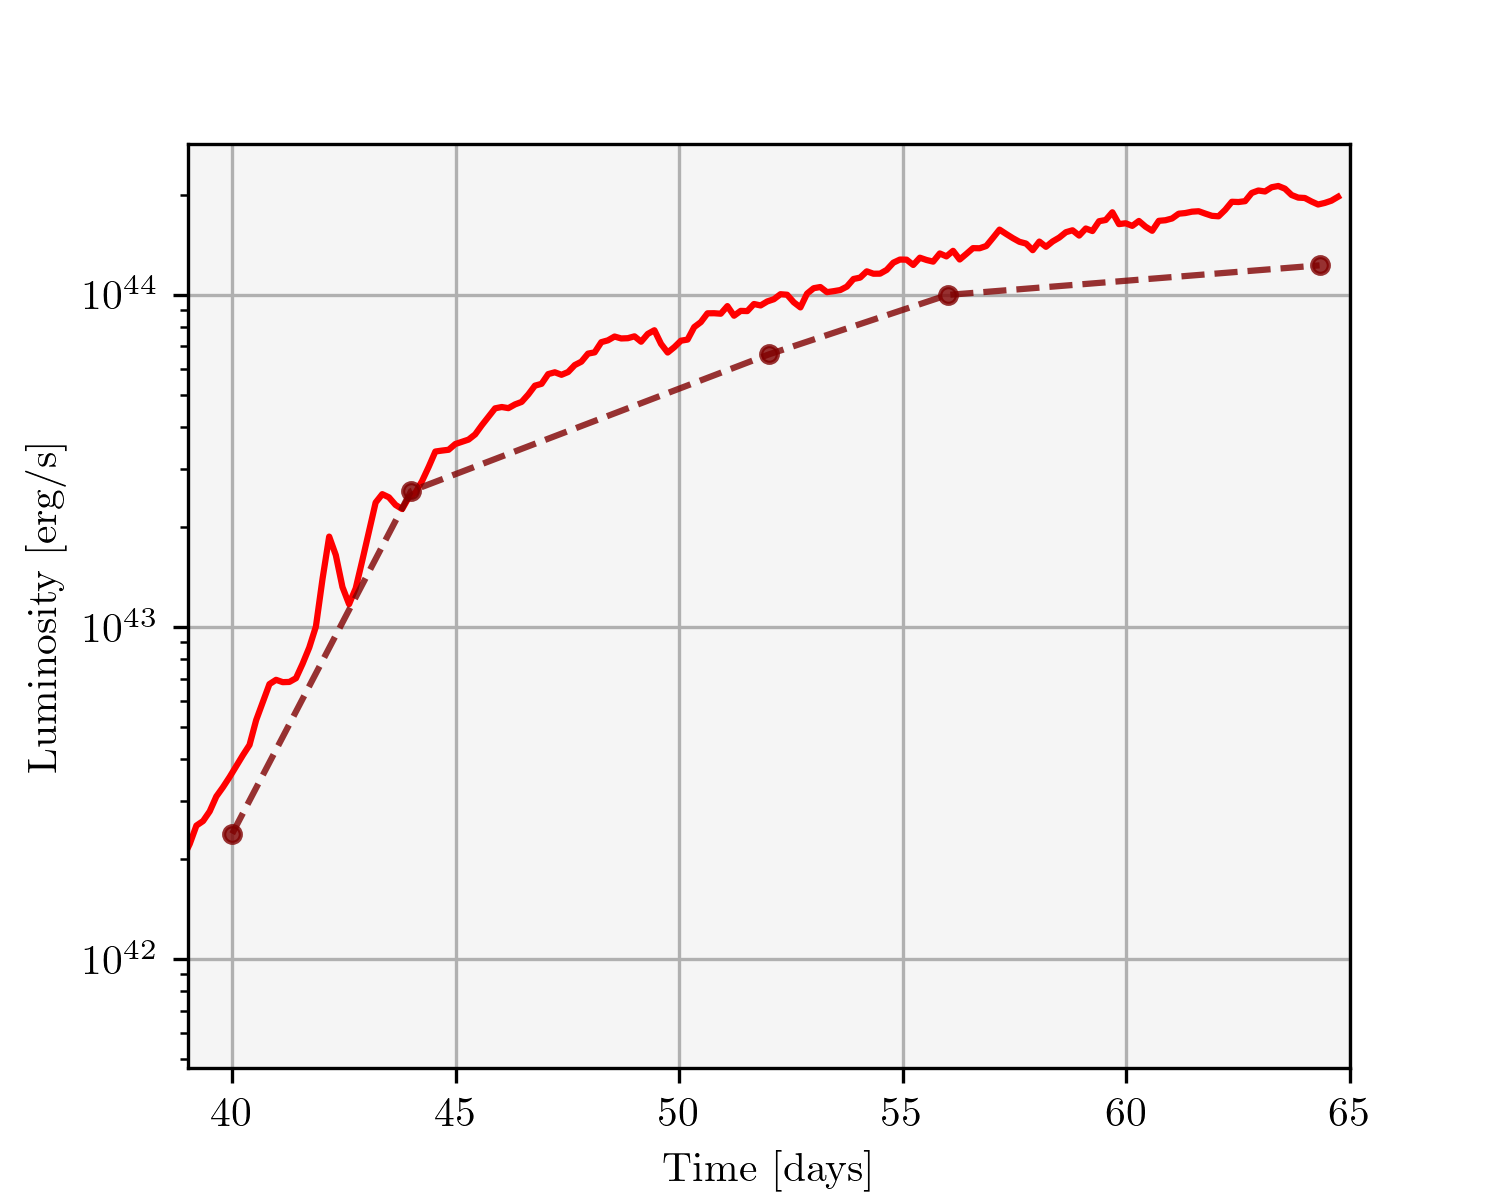
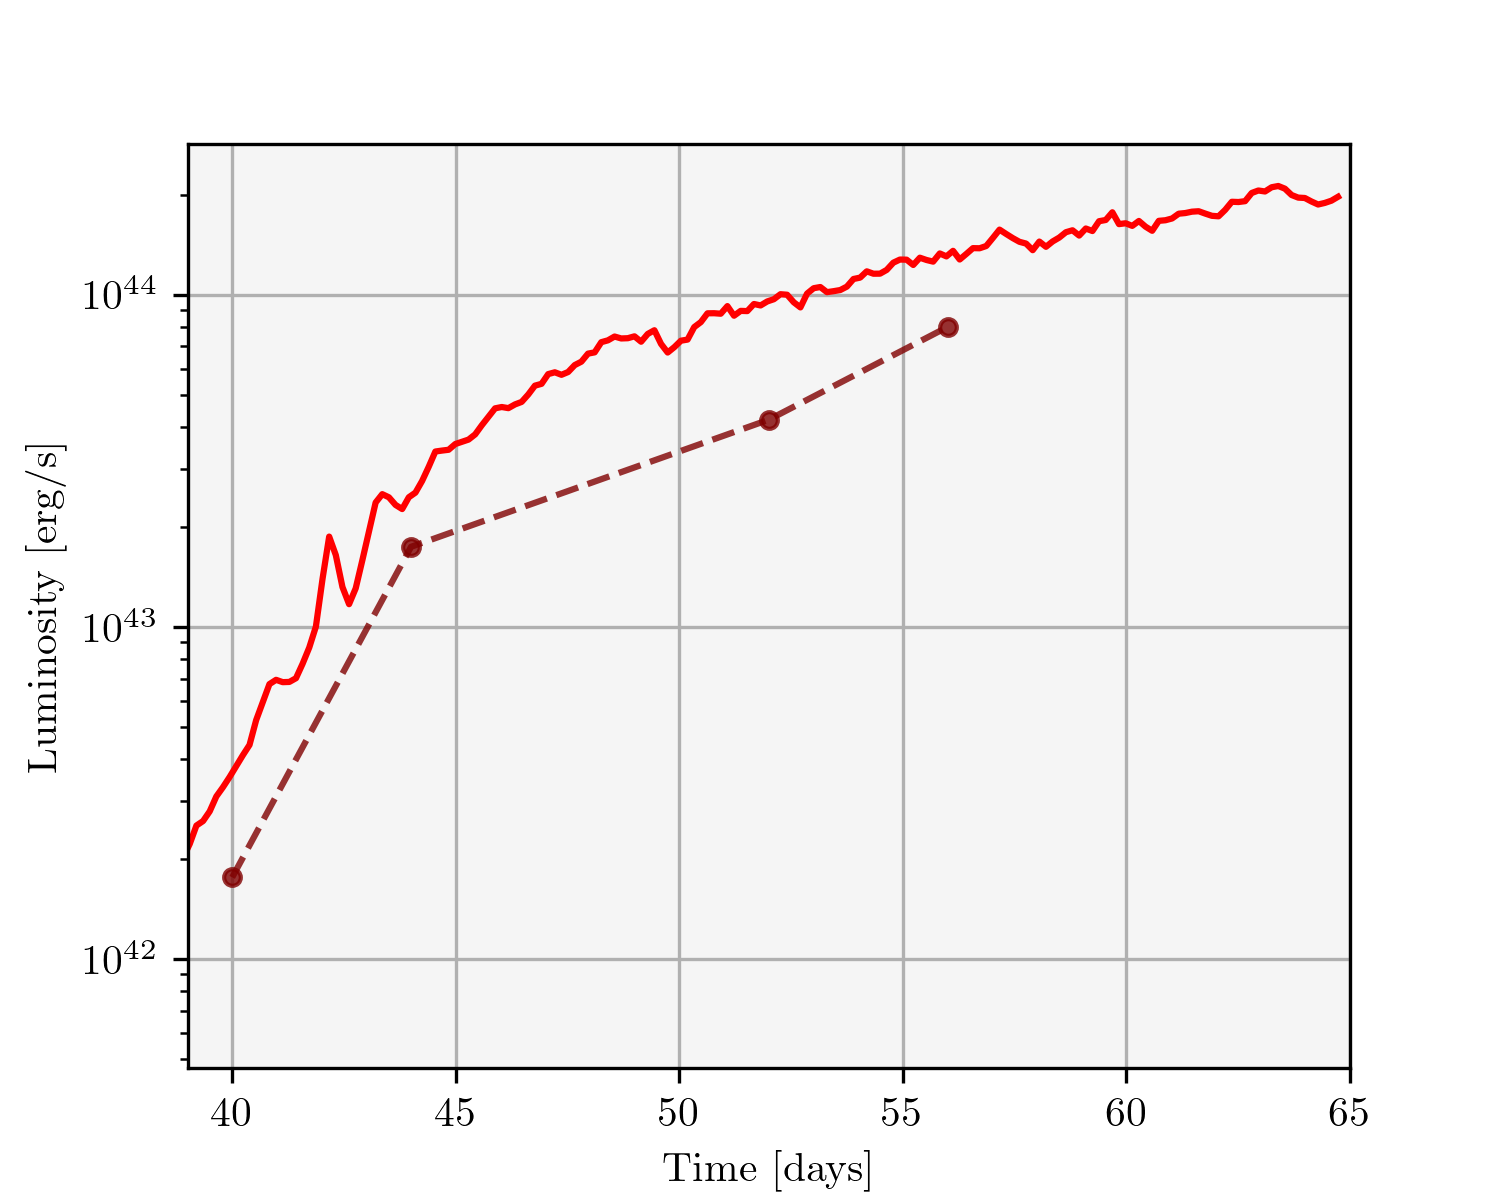
plot for photosphere and working on red

diff --git a/src/Luminosity/red_tree.py b/src/Luminosity/red_tree.py
@@ -18,6 +18,7 @@ sys.path.append('/Users/paolamartire/tde_comparison')
 import numpy as np
 import matplotlib.pyplot as plt
 import numba
+from scipy.spatial import KDTree
 from datetime import datetime
 # Custom Imports
 from src.Opacity.opacity_table import opacity
@@ -29,7 +30,7 @@ plt.rcParams['figure.figsize'] = [5 , 4]
 
 #%% Constants & Converter
 c_cgs = 3e10 # [cm/s]
-Rsol_to_cm = 6.957e10 # [cm]
+#Rsol_to_cm = 6.957e10 # [cm]
 alice = False
 #%%
 ##
@@ -45,31 +46,37 @@ def select_fix(m):
             snapshots = np.arange(844, 1008 + 1)
             days = [1.00325,1.007,1.01075,1.01425,1.018,1.02175,1.0255,1.029,1.03275,1.0365,1.04025,1.04375,1.0475,1.05125,1.055,1.0585,1.06225,1.066,1.06975,1.07325,1.077,1.08075,1.0845,1.088,1.09175,1.0955,1.09925,1.10275,1.1065,1.11025,1.114,1.1175,1.12125,1.125,1.12875,1.13225,1.136,1.13975,1.1435,1.147,1.15075,1.1545,1.15825,1.16175,1.1655,1.16925,1.173,1.1765,1.18025,1.184,1.18775,1.19125,1.195,1.19875,1.2025,1.206,1.20975,1.2135,1.21725,1.22075,1.2245,1.22825,1.232,1.2355,1.23925,1.243,1.24675,1.25025,1.254,1.25775,1.2615,1.265,1.26875,1.2725,1.27625,1.27975,1.2835,1.28725,1.291,1.2945,1.29825,1.302,1.30575,1.30925,1.313,1.31675,1.3205,1.324,1.32775,1.3315,1.33525,1.33875,1.3425,1.34625,1.35,1.3535,1.35725,1.361,1.36475,1.36825,1.372,1.37575,1.3795,1.383,1.38675,1.3905,1.39425,1.39775,1.4015,1.40525,1.409,1.4125,1.41625,1.42,1.42375,1.42725,1.431,1.43475,1.4385,1.442,1.44575,1.4495,1.45325,1.45675,1.4605,1.46425,1.468,1.4715,1.47525,1.479,1.48275,1.48625,1.49,1.49375,1.4975,1.501,1.50475,1.5085,1.51225,1.51575,1.5195,1.52325,1.527,1.5305,1.53425,1.538,1.54175,1.54525,1.549,1.55275,1.5565,1.56,1.56375,1.5675,1.57125,1.57475,1.5785,1.58225,1.586,1.5895,1.59325,1.597,1.60075,1.60425,1.608]
         else:
-            snapshots = [844, 881, 925, 950, 1008] #[844, 881, 882, 898, 925, 950]
-            days = [1, 1.1, 1.3, 1.4, 1.608] #[1, 1.139, 1.143, 1.2, 1.3, 1.4] # t/t_fb
+            snapshots = [844, 881, 925, 950]#, 1008] #[844, 881, 882, 898, 925, 950]
+            days = [1, 1.1, 1.3, 1.4]#, 1.608] #[1, 1.139, 1.143, 1.2, 1.3, 1.4] # t/t_fb
     return snapshots, days
 
+def find_neighbours(fix, m, tree_indexes):
+    X = np.load( str(m) + '/'  + fix + '/CMx_' + fix + '.npy')
+    Y = np.load( str(m) + '/'  + fix + '/CMy_' + fix + '.npy')
+    Z = np.load( str(m) + '/'  + fix + '/CMz_' + fix + '.npy')
+    x_selected = X[tree_indexes]
+    y_selected = Y[tree_indexes]
+    z_selected = Z[tree_indexes]
+    for i in range(len(x_selected)):
+        
+
+
 @numba.njit
-def grad_calculator(ray: np.array, radii: np.array, sphere_radius: int): 
+def grad_calculator(ray: np.array, radii: np.array, index_photo: int): 
     # For a single ray (in logspace) get 
     # the index of radius closest to sphere_radius and the gradE there.
-    # Ray is in CGS
-    # Radii and sphere_radius are in simulator units.
-    for i, radius in enumerate(radii):
-        if radius > sphere_radius:
-            idx = i - 1 
-            break
+    # In(out)puts in CGS
+
+    #QUERY NEIGHB AND BUILD A SMALL RAY
         
-    step = radii[idx+2] - radii[idx] 
-    step *= Rsol_to_cm
+    step = radii[idx+2] - radii[idx-1] 
+    grad_E = (ray[idx+2] - ray[idx-1]) / step 
 
-    grad_E = (ray[idx+2] - ray[idx]) / step # now in CGS
-
-    return grad_E, idx
+    return grad_E, idx #you should save the value of the less outside point of photo
 
     
-def flux_calculator(grad_E, idx_tot, 
-                    rays, rays_T, rays_den):
+def flux_calculator(grad_E, idx_tot, rays, 
+                    rays_T, rays_den):
     """
     Get the flux for every observer.
     Everything is in CGS.
@@ -87,7 +94,7 @@ def flux_calculator(grad_E, idx_tot,
     for i, ray in enumerate(rays):
         # We compute stuff OUTSIDE the photosphere
         # (which is at index idx_tot[i])
-        idx = int(idx_tot[i]+1) #  
+        idx = idx_tot[i] #int(idx_tot[i]+1) #PROBABLY NO MORE AND USE IDX_TOT[i]
         Energy = ray[idx]
         max_travel = np.sign(-grad_E[i]) * c_cgs * Energy # or should we keep the abs???
         
@@ -155,21 +162,21 @@ def doer_of_thing(fix, m):
     Gives bolometric L and R_ph (of evry observer)
     """
     _, rays_T, rays_den, rays, radii, _ = ray_maker(fix, m)
-    _, _, rays_photo, _ = get_photosphere(rays_T, rays_den, radii)
+    _, _, rays_photo, rays_index_photo = get_photosphere(rays_T, rays_den, radii)
 
     grad_E_tot = np.zeros(len(rays_T))
     idx_tot = np.zeros(len(rays_T))
     for i in range(len(rays_T)):
     # Calculate gradE for every ray
         ray = rays[i]
-        photo = rays_photo[i]
-        grad_E, idx = grad_calculator(ray, radii, photo)
+        index_photo = rays_index_photo[i]
+        grad_E, idx = grad_calculator(ray, radii, index_photo)
         grad_E_tot[i]= grad_E
         idx_tot[i] = idx
 
     # Calculate Flux and see how it looks
     flux = flux_calculator(grad_E_tot, idx_tot, 
-                            rays, rays_T, rays_den)
+                           rays, rays_T, rays_den)
     # Save flux
     # with open('data/red/flux_m'+ str(m) + '_fix' + str(fix) + '.txt', 'a') as f:
     #     f.write('#snap '+ str(fix) + 'num ' + str(num) + ', ' + str(today) + '\n')
@@ -188,9 +195,8 @@ def doer_of_thing(fix, m):
             neg_count += 1
             flux[i] = 0 
 
-        sphere_radius_cgs = rays_photo[i] * Rsol_to_cm
-        lum[i] = flux[i] * 4 * np.pi * sphere_radius_cgs**2
-        print(lum)
+        lum[i] = flux[i] * 4 * np.pi * rays_photo[i]**2
+    #lum = np.nan_to_num(lum, posinf=0, neginf=0)
 
     # Average in observers
     lum = np.sum(lum)/192
@@ -203,13 +209,13 @@ def doer_of_thing(fix, m):
 # MAIN
 ##
 if __name__ == "__main__":
-    save = False
-    plot = True
+    save = True
+    plot = False
     m = 6 # Choose BH
     fixes, days = select_fix(m)
     lums = []
             
-    for idx in range(0,1):#len(fixes)):
+    for idx in range(0,len(fixes)):
         lum, sphere_radius = doer_of_thing(fixes[idx], m)
         lums.append(lum)
     
@@ -220,9 +226,9 @@ if __name__ == "__main__":
             np.savetxt(pre + 'tde_comparison/data/alicered'+ str(m) + '.txt', (days, lums))
         else:
              with open('data/red/new_reddata_m'+ str(m) + '.txt', 'a') as flum:
-                 flum.write('# t/t_fb') 
+                 flum.write('# t/t_fb \n') 
                  flum.write(' '.join(map(str, days)) + '\n')
-                 flum.write('# Lum') 
+                 flum.write('# Lum \n') 
                  flum.write(' '.join(map(str, lums)) + '\n')
                  flum.close() 
 

diff --git a/src/Luminosity/special_radii_tree.py b/src/Luminosity/special_radii_tree.py
@@ -18,6 +18,7 @@ sys.path.append('/Users/paolamartire/tde_comparison')
 import numpy as np
 import healpy as hp
 from scipy.stats import gmean
+
 import matplotlib.pyplot as plt
 import matplotlib.colors as colors
 plt.rcParams['text.usetex'] = True
@@ -43,9 +44,9 @@ def select_fix(m):
         days = [1, 1.1, 1.3, 1.4] 
     return snapshots, days
 
-def get_kappa(T: float, rho: float, dr: float):
+def get_kappa(T: float, rho: float, r_dlogr: float):
     '''
-    T,rho, dr in CGS.
+    T,rho, r_dlogr in CGS.
     Calculates the integrand of eq.(8) Steinberg&Stone22.
     '''    
     # If there is nothing, the ray continues unimpeded
@@ -68,21 +69,21 @@ def get_kappa(T: float, rho: float, dr: float):
         kscattering = opacity(Tscatter, rho, 'scattering', ln = False)
 
         oppi = kplanck + kscattering
-        tau_high = oppi * dr
+        tau_high = oppi * r_dlogr
         return tau_high 
     
     # Lookup table
     k = opacity(T, rho,'red', ln = False)
-    kappar =  k * dr
+    kappar =  k * r_dlogr
     
     return kappar
 
-def calc_photosphere(T, rho, rs):
+def calc_photosphere(T, rho, radius, branch_indexes):
     '''
     Parameters
     ----------
     T, rho: 1D arrays (CGS)
-    rs: 1D array (solar units)
+    radius: 1D array (CGS)
 
     Returns
     -------
@@ -98,27 +99,27 @@ def calc_photosphere(T, rho, rs):
     cumulative_kappas = []
     i = -1 # Initialize reverse loop
     while kappa <= threshold and i > -len(T):
-        dlogr = np.log(rs[i]) - np.log(rs[i-1])
-        dr = rs[i] * dlogr #-rs[i-1] # Step in the grid
-        new_kappa = get_kappa(T[i], rho[i], dr)
+        dlogr = np.log(radius[i]) - np.log(radius[i-1])
+        r_dlogr = radius[i] * dlogr #to integrate in log space
+        new_kappa = get_kappa(T[i], rho[i], r_dlogr)
         kappa += new_kappa
         kappas.append(new_kappa)
         cumulative_kappas.append(kappa)
         i -= 1
 
-    photo =  rs[i] #i it's negative
-    index_ph = len(rs) + i # to find the index of photo from inside to outside
+    photo =  radius[i] #i it's negative
+    index_ph = branch_indexes[i]
 
     return kappas, cumulative_kappas, photo, index_ph
 
-def get_photosphere(rays_T, rays_den, radii):
+def get_photosphere(rays_T, rays_den, radii, tree_indexes):
     '''
-    Finds and saves the photosphere (in solar units) for every ray.
+    Finds and saves the photosphere (CGS) for every ray.
 
     Parameters
     ----------
-    rays_T, rays_den: n-D arrays.
-    radii: 1D array.
+    rays_T, rays_den: n-D arrays (CGS)
+    radii: 1D array (CGS)
 
     Returns
     -------
@@ -135,9 +136,11 @@ def get_photosphere(rays_T, rays_den, radii):
         # Isolate each ray
         T_of_single_ray = rays_T[i]
         Den_of_single_ray = rays_den[i]
+        branch_indexes = tree_indexes[i]
         
         # Get photosphere
-        kappas, cumulative_kappas, photo, index_ph  = calc_photosphere(T_of_single_ray, Den_of_single_ray, radii)
+        kappas, cumulative_kappas, photo, index_ph  = calc_photosphere(T_of_single_ray, Den_of_single_ray, 
+                                                                       radii, branch_indexes)
 
         # Store
         rays_kappas.append(kappas)
@@ -290,7 +293,7 @@ if __name__ == "__main__":
 
         for j,num in enumerate(num_array):
             tree_indexes, rays_T, rays_den, rays, radii, rays_vol = ray_maker(snapshot, m, num)
-            rays_kappa, rays_cumulative_kappas, rays_photo, rays_index_photo = get_photosphere(rays_T, rays_den, radii)
+            rays_kappa, rays_cumulative_kappas, rays_photo, rays_index_photo = get_photosphere(rays_T, rays_den, radii, tree_indexes)
             rays_photo = rays_photo/Rsol_to_cm
             num_photo_arit[j] = np.mean(rays_photo)
             num_photo_geom[j] = gmean(rays_photo)
@@ -383,6 +386,7 @@ if __name__ == "__main__":
             plt.yscale('log')
             plt.grid()
             plt.legend()
+            plt.savefig('photospherefromRt.png')
         plt.show()
 
             

diff --git a/src/Calculators/ray_tree.py b/src/Calculators/ray_tree.py
@@ -12,7 +12,7 @@ sys.path.append('/Users/paolamartire/tde_comparison')
 import numpy as np
 from scipy.spatial import KDTree
 import healpy as hp
-from astropy.coordinates import cartesian_to_spherical, spherical_to_cartesian
+from astropy.coordinates import spherical_to_cartesian
 import matplotlib.pyplot as plt
 AEK = '#F1C410'
 alice = False
@@ -70,7 +70,7 @@ def ray_maker(fix, m, num = 5000):
     sim_tree = KDTree(sim_value) 
     
     # Ensure that the regular grid cells are smaller than simulation cells
-    start = 0.5 * Rt #Solar radii
+    start = 0.01 #Rt #Solar radii
     stop = 10_000 
     log_start = np.log10(start)
     log_stop = np.log10(stop)

diff --git a/src/Extractors/gen_extractor.py b/src/Extractors/gen_extractor.py
@@ -4,6 +4,8 @@ Created on Thu Jan 12 18:02:14 2023
 
 @author: Konstantinos
 """
+import sys
+sys.path.append('/Users/paolamartire/tde_comparison')
 
 import numpy as np
 import h5py
@@ -73,7 +75,7 @@ def extractor(filename):
     return T, Z
 
 #%% Doing the thing
-fixes = ['881', '925', '950']
+fixes = ['1008']
 for fix in fixes:
     snapshot = '6/' + fix+'/snap_'+fix+'.h5'
     T, _ = extractor(snapshot)   

diff --git a/src/Plotting/comparison_with_elad.py b/src/Plotting/comparison_with_elad.py
@@ -17,8 +17,8 @@ plt.rcParams['font.family'] = 'Times New Roman'
 plt.rcParams['figure.figsize'] = [5 , 4]
 plt.rcParams['axes.facecolor']= 	'whitesmoke'
 
-plot_curves = False
-plot_radii_sphere = True
+plot_curves = True
+plot_radii_sphere = False
 plot_fit = False
 m = 6
 
